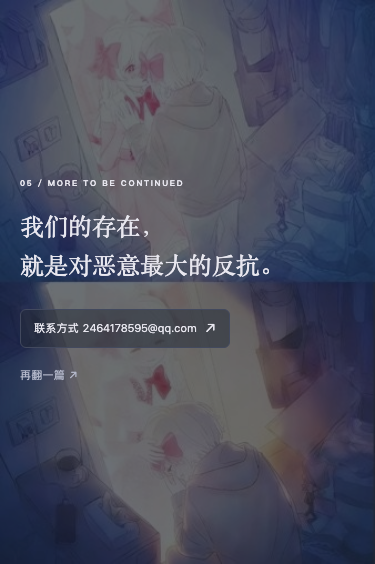
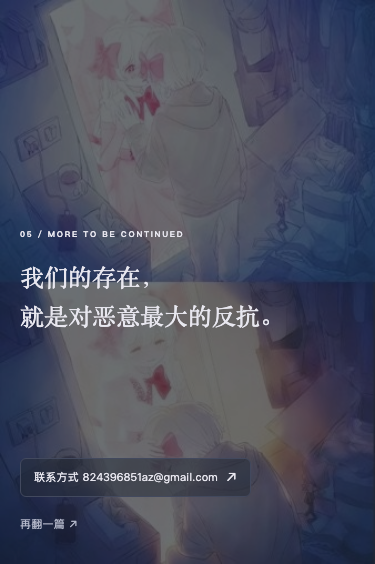
Update contact email and responsive link placement

diff --git a/dist/style.css b/dist/style.css
@@ -323,7 +323,7 @@ details p { font-size:12px; line-height:2; color:var(--muted); margin-bottom:2px
 }
 
 /* 联系方式与配图 */
-.contact { padding:50px 55px; margin-top:0; margin-bottom:58px; display:flex; justify-content:space-between; align-items:center; gap:30px; border-radius:10px; border:1px solid var(--line); position:relative; overflow:hidden; isolation:isolate; aspect-ratio:676/254; background:linear-gradient(115deg,#dfeaf255,#f3e4ec70); }
+.contact { --contact-inset:55px; padding:50px var(--contact-inset); margin-top:0; margin-bottom:58px; display:flex; justify-content:space-between; align-items:center; gap:30px; border-radius:10px; border:1px solid var(--line); position:relative; overflow:hidden; isolation:isolate; aspect-ratio:676/254; background:linear-gradient(115deg,#dfeaf255,#f3e4ec70); }
 .contact .eyebrow { margin-bottom:16px; }
 .contact h2 { font-size:29px; text-wrap:balance; }
 .contact p:not(.eyebrow) { font-size:12px; color:var(--muted); margin-bottom:0; }
@@ -335,13 +335,13 @@ details p { font-size:12px; line-height:2; color:var(--muted); margin-bottom:2px
 .contact-split span:last-child { background-position:center bottom; }
 .contact::before { content:""; position:absolute; inset:0; z-index:1; background:var(--paper); opacity:.45; pointer-events:none; }
 .contact-copy, .contact-action { position:relative; z-index:2; }
-.contact .contact-copy .eyebrow { margin-top:0; }
+.contact .contact-copy .eyebrow { margin-top:0; transform:translateX(calc(0px - var(--contact-inset) - 1px)); }
 .contact-email { display:flex; width:max-content; align-items:center; justify-content:center; gap:8px; max-width:100%; margin:0 auto; padding:9px 13px; border:1px solid var(--line); border-radius:6px; background:var(--panel); font-size:11px; line-height:1.7; color:var(--ink); text-align:left; overflow-wrap:anywhere; transition:background .2s,border-color .2s; }
 .contact-email:hover { background:var(--wash); border-color:var(--accent); }
 .contact-email>span[aria-hidden] { flex:0 0 auto; font-size:14px; line-height:1; }
 .contact-mobile-art { display:none; }
 @media(max-width:1050px) {
-  .contact { padding:40px; }
+  .contact { --contact-inset:40px; padding:40px; }
 }
 /* 移动端完整配图置于文字下层；沿用桌面的透明度与柔和遮罩。
    背景铺满屏宽，文字保留 20px 页边距，与前面各节的标题对齐。 */
@@ -355,7 +355,8 @@ details p { font-size:12px; line-height:2; color:var(--muted); margin-bottom:2px
   .contact .contact-mobile-art { display:block; position:absolute; inset:0; z-index:0; opacity:.62; overflow:hidden; pointer-events:none; }
   .contact-mobile-art img { width:100%; height:100%; object-fit:cover; filter:saturate(.9); }
   .contact .contact-copy, .contact .contact-action { width:100%; padding:0; }
-  .contact .contact-copy .eyebrow { margin-bottom:14px; }
+  .contact .contact-copy .eyebrow { margin-bottom:14px; transform:none; }
+  .contact .contact-action { position:absolute; left:20px; right:20px; bottom:28px; width:auto; }
 }
 @media(max-width:359px) {
   .contact h2 { font-size:21px; }

diff --git a/dist/index.html b/dist/index.html
@@ -7,8 +7,8 @@
 <meta name="theme-color" content="#f8f8fc">
 <title>夕雾 · 云间来信</title>
 <link rel="icon" href="assets/favicon.svg?v=79847ec957" type="image/svg+xml">
-<link rel="stylesheet" href="style.css?v=82e05545e0">
-<script defer src="profile.js?v=7a8206ce9e"></script>
+<link rel="stylesheet" href="style.css?v=67a9d05c77">
+<script defer src="profile.js?v=07e9b81b6d"></script>
 <script defer src="archive.js?v=6fa7c5f08b"></script>
 <script defer src="script.js?v=56fe5a6197"></script>
 <!-- SITE_META_START -->
@@ -127,7 +127,7 @@
   <div class="contact-split" aria-hidden="true"><span></span><span></span></div>
   <div class="contact-mobile-art" aria-hidden="true"><img src="assets/contact.jpg?v=8d141f7dad" alt="" width="338" height="508" loading="lazy" decoding="async"></div>
   <div class="contact-copy"><p class="eyebrow">05 / MORE TO BE CONTINUED</p><h2 id="contact-title" data-i18n-html="contact.title">我们的存在，<br>就是对恶意最大的反抗。</h2></div>
-  <div class="contact-action"><a id="email-link" class="contact-email" hidden><span id="email-label">给夕雾写信</span> <span aria-hidden="true">↗</span></a><p id="contact-placeholder" data-i18n="contact.placeholder">联系方式 2464178595@qq.com</p><a class="text-link" href="#interests"><span data-i18n="contact.more">再翻一篇</span> <span aria-hidden="true">↗</span></a></div>
+  <div class="contact-action"><a id="email-link" class="contact-email" hidden><span id="email-label">给夕雾写信</span> <span aria-hidden="true">↗</span></a><p id="contact-placeholder" data-i18n="contact.placeholder">联系方式 824396851az@gmail.com</p><a class="text-link" href="#interests"><span data-i18n="contact.more">再翻一篇</span> <span aria-hidden="true">↗</span></a></div>
 </section>
 </main>
 <footer class="wrap"><a class="brand" href="#home"><span data-site-name>夕雾</span><span class="brand-sub">LETTERS IN THE CLOUDS</span></a><p data-i18n="footer.note">今夕回眸怜旧我，明朝抵岸忆他宵。</p><a href="#home" data-i18n="footer.back">回到云端 ↑</a></footer>

diff --git a/artifacts/contact-mobile/README.md b/artifacts/contact-mobile/README.md
@@ -1,19 +1,21 @@
 # 移动端联系区修复（2026-10-25）
 
-基于 `008343a` 修复。原移动端规则关闭了 `::before` 遮罩，并把完整图片排在正常文档流中，因此图片显示原始浓度，标题和链接出现在图后。
+首次基于 `008343a` 修复；随后按要求将移动端链接移至左下角、桌面端章节标记左对齐，并统一更新邮箱。原移动端规则关闭了 `::before` 遮罩，并把完整图片排在正常文档流中，因此图片显示原始浓度，标题和链接出现在图后。
 
-本次仅调整联系区样式：移动端图片改为绝对定位的底层背景，沿用桌面端 0.62 的图片透明度、0.45 的主题遮罩和轻微降低饱和度；文字位于遮罩上方。移动端背景铺满屏宽，文字保留 20px 页边距，确保“05 / MORE TO BE CONTINUED”与前面章节标题左边缘对齐。标题、联系方式和“再翻一篇”均位于图片范围内，遮罩不接收点击。原图及所有作者文案没有改动。
+本次仅调整联系区样式：移动端图片改为绝对定位的底层背景，沿用桌面端 0.62 的图片透明度、0.45 的主题遮罩和轻微降低饱和度；文字位于遮罩上方。移动端背景铺满屏宽，文字保留 20px 页边距，确保“05 / MORE TO BE CONTINUED”与前面章节标题左边缘对齐。标题、联系方式和“再翻一篇”均位于图片范围内，遮罩不接收点击。联系方式和“再翻一篇”距图片左侧 20px、底部 28px，且不与标题重叠。桌面端“05”消除卡片内边距与边框造成的缩进，与前面章节左边缘对齐。联系邮箱、四语言备用文案及邮件链接均更新为 `824396851az@gmail.com`。原图和文章原文没有改动。
 
 验证：
 
 - 17 个单元测试、构建通过。
 - 15 个 Chromium E2E 全部通过。
 - 额外使用 WebKit 27.2 的触屏移动端模式执行两项真实内容冒烟测试，均通过。
-- 覆盖 320、375、768、1440px、四种语言及深浅主题；检查图片加载、文字边界、叠层、标题对齐、邮箱地址、“再翻一篇”可点击，以及横向溢出和控制台/资源错误。
+- 覆盖 320、375、768、1440px、四种语言及深浅主题；检查图片加载、文字边界、叠层、各端标题对齐、移动端链接底部位置、四语言 Gmail 地址、“再翻一篇”可点击，以及横向溢出和控制台/资源错误。
 - 浏览器测试已将旧的“链接在图片下方”断言替换为新的叠放要求。
 
 | 修复前 | 修复后浅色 | 修复后深色 |
 | --- | --- | --- |
 | [375px 截图](before-375-light.png) | [375px 截图](after-375-light.png) | [375px 截图](after-375-dark.png) |
+
+[桌面端 1440px 标记对齐截图](after-1440-light.png)。
 
 推送后通过 [main 的 GitHub Actions](https://github.com/xiwu-yu/xiwu-cloud-notes/actions/workflows/pages.yml) 验证并部署。

diff --git a/README.md b/README.md
@@ -109,7 +109,9 @@ GitHub Actions 在 PR、main push 和手动触发时验证；安装 Chromium 及
 
 资源实测、验证记录与主要截图见 [本轮修复证据](artifacts/verification.md)。`node scripts/evidence.mjs after` 可用本机 Chrome 重新记录本地冷加载数据和截图（先构建）；测量的是本地无压缩 HTTP 服务，gzip 为离线估算，不代表线上 CDN 的传输压缩。
 
-移动端联系区使用完整配图作为底层背景，沿用桌面端的透明度和主题遮罩；标题、联系方式和「再翻一篇」叠在图上。文字保留 20px 页边距，使「05 / MORE TO BE CONTINUED」与前面章节标题对齐。浏览器测试覆盖各语言、主题下的文字边界、对齐与链接可操作性。[联系区前后截图与验证记录](artifacts/contact-mobile/README.md)。
+移动端联系区使用完整配图作为底层背景，沿用桌面端的透明度和主题遮罩；标题叠在图上，联系方式和「再翻一篇」固定在图片左下角（左侧 20px、底部 28px）。移动端文字保留 20px 页边距；桌面端「05 / MORE TO BE CONTINUED」也与前面章节标题左边缘对齐。浏览器测试覆盖各语言、主题下的文字边界、对齐与链接可操作性。[联系区前后截图与验证记录](artifacts/contact-mobile/README.md)。
+
+当前联系邮箱统一为 `824396851az@gmail.com`，四种语言的显示文案、备用文案和 `mailto` 均使用该地址。
 
 ### 缓存版本
 
